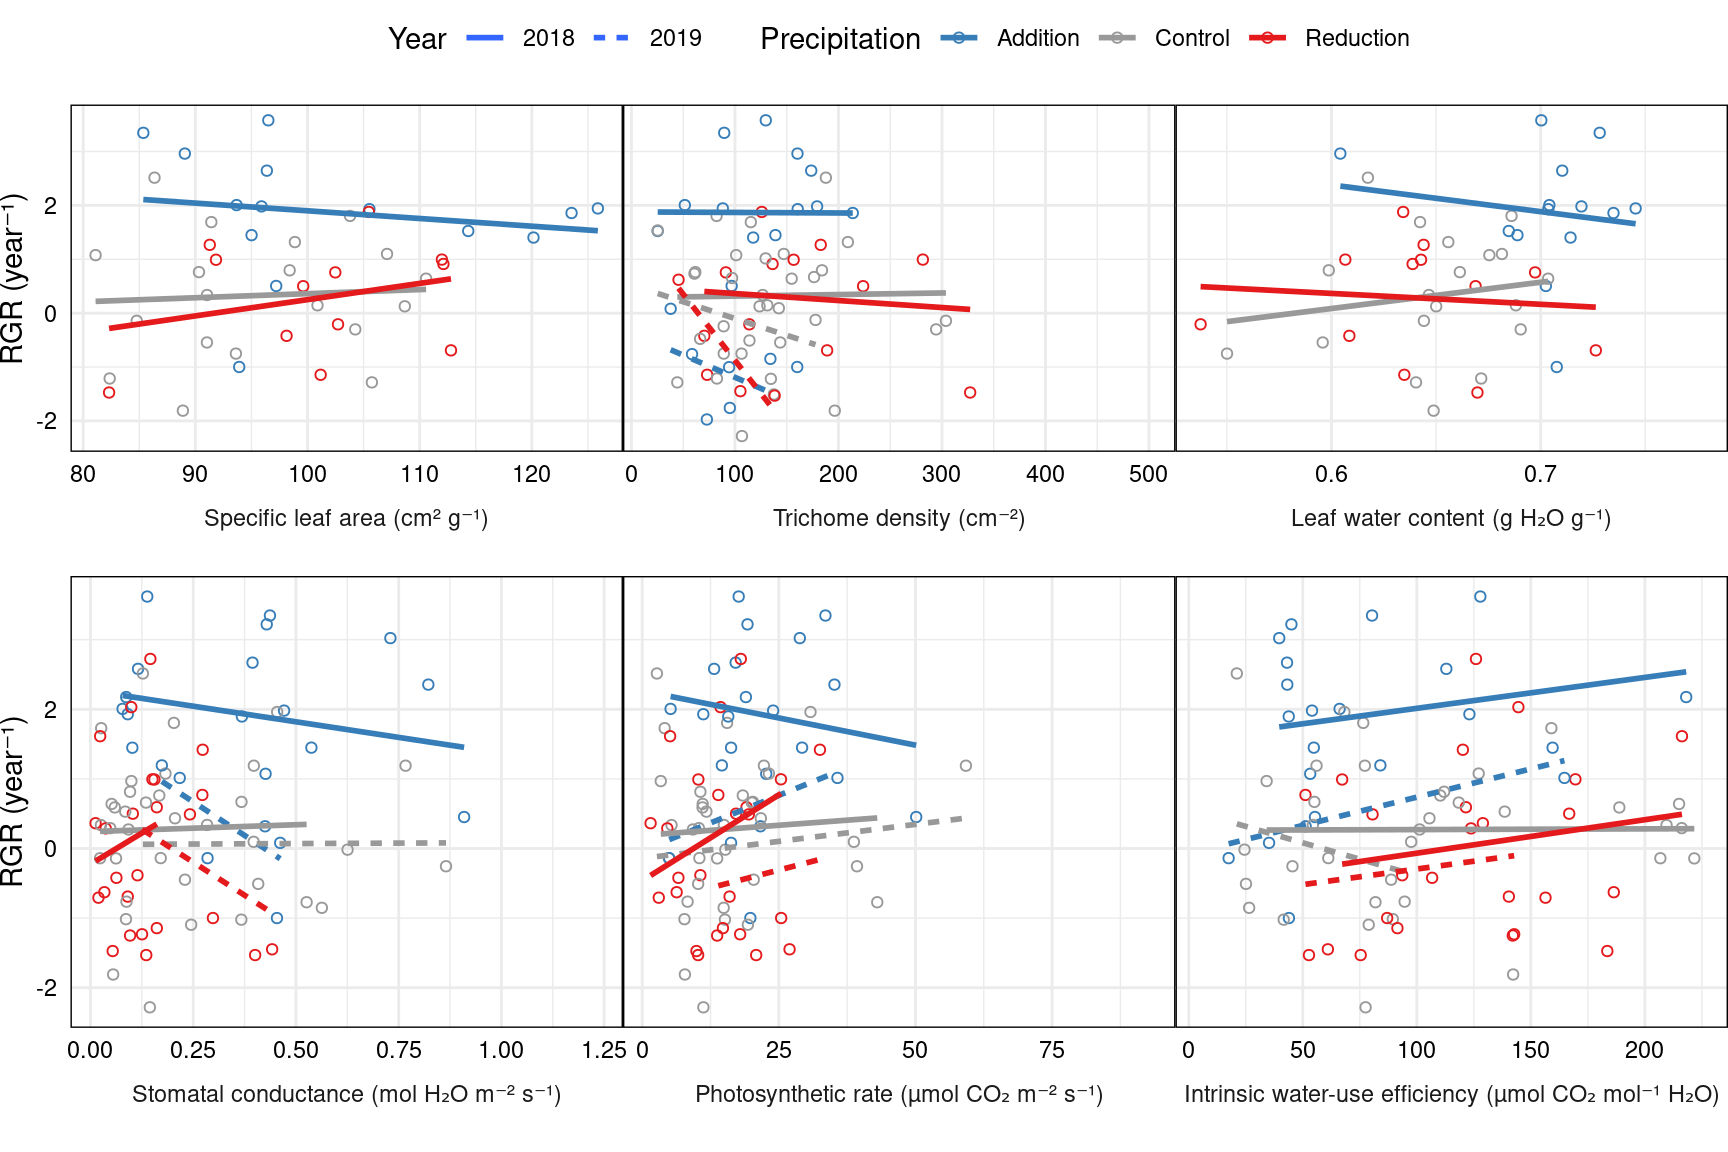
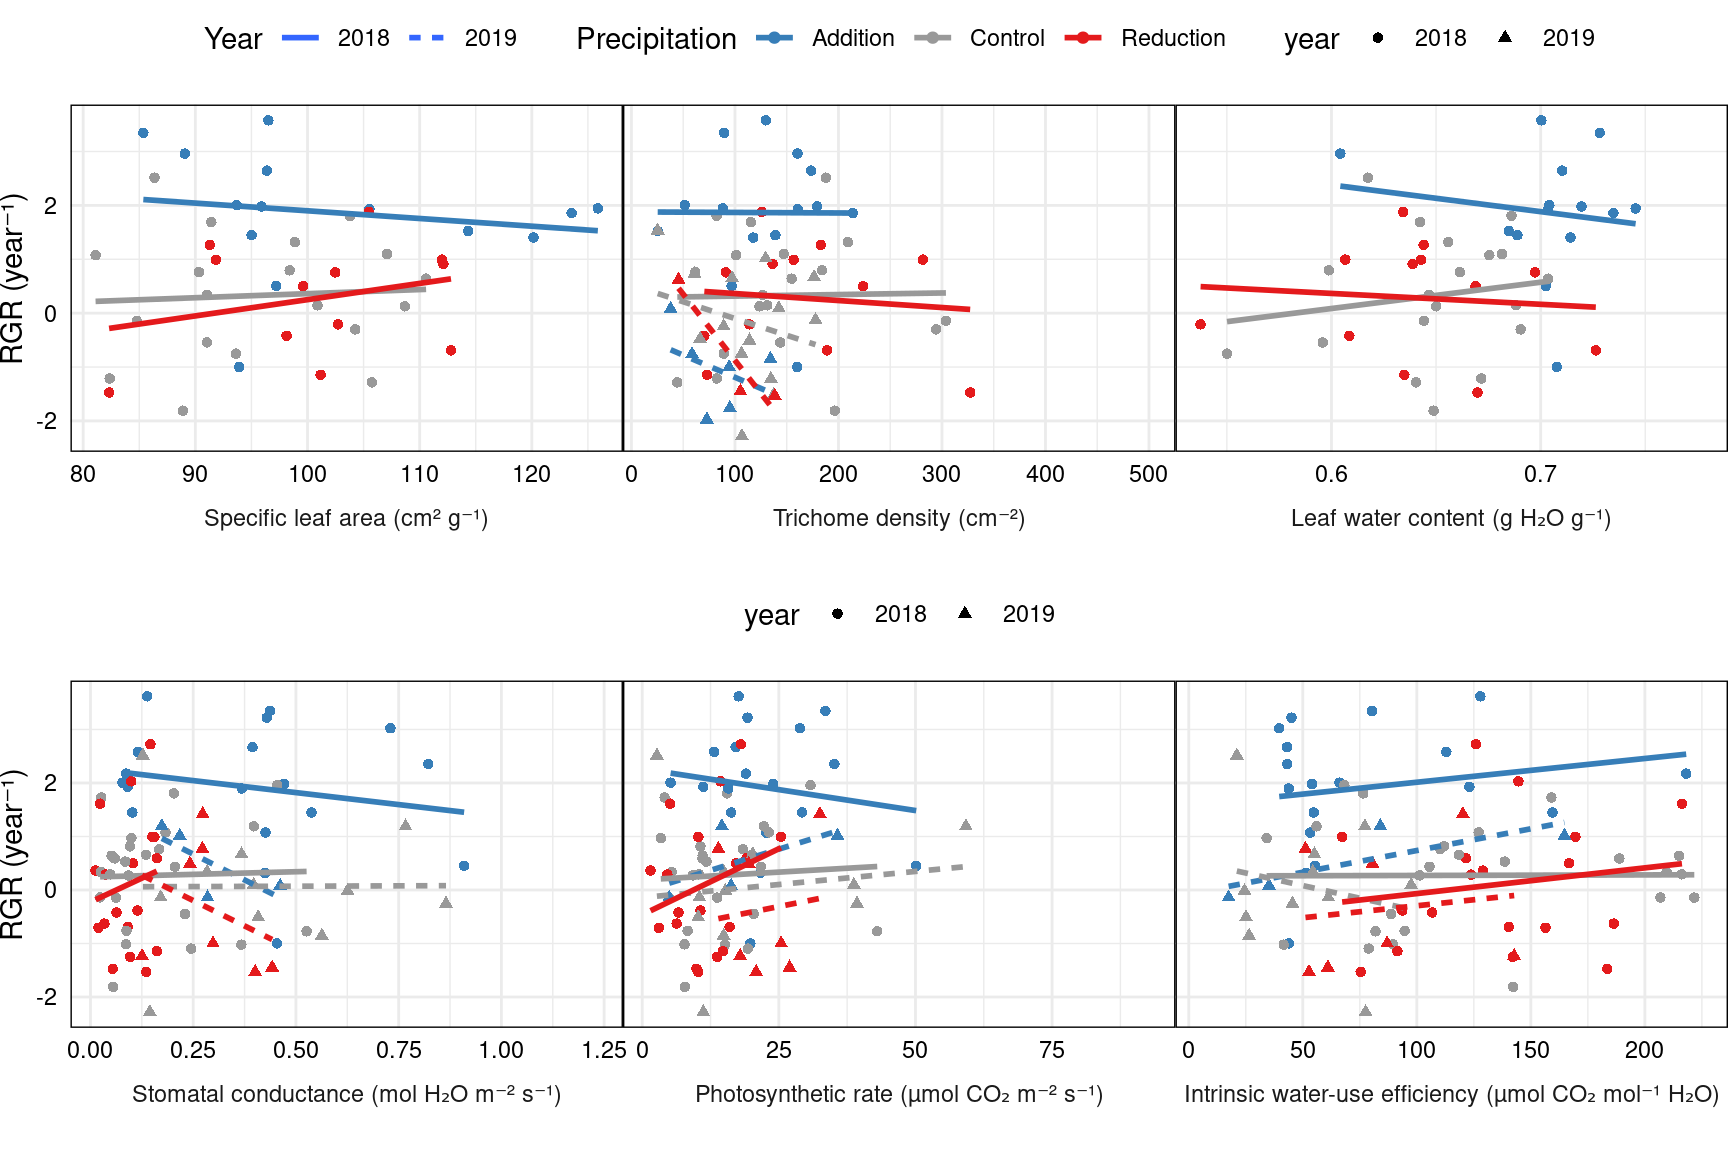
Tweak selection plots

diff --git a/maxfield_JP_analyses.html b/maxfield_JP_analyses.html
@@ -1730,8 +1730,9 @@ Conditional model:
   
 cen.size.fitness %&gt;%  select(year, census, size, flowered, survived, water, snow) %&gt;% filter(census !=&quot;2020&quot;) %&gt;% 
   pivot_longer(c(flowered, survived), names_to=&quot;trait&quot;, values_to=&quot;fitness&quot;) %&gt;% 
-  ggplot(aes(x=log10(size), y=fitness, color=water)) + facet_grid(trait ~ census, switch=&quot;y&quot;, 
-                                                                labeller = as_labeller(c(fitnessnames, set_names(unique(cen.size.fitness$census))))) +
+  ggplot(aes(x=log10(size), y=fitness, color=water)) + 
+  facet_grid(trait ~ census, switch=&quot;y&quot;, 
+             labeller = as_labeller(c(fitnessnames, c(`2018`=&quot;2018 early&quot;,`2018r2`=&quot;2018 late&quot;,`2019`=&quot;2019 early&quot;)))) +
   geom_point(shape=&quot;|&quot;, show.legend=F) + geom_smooth(method=&quot;glm&quot;, method.args=list(family=&quot;binomial&quot;), se=F) +
   scale_color_manual(values=water_pal) + scale_y_continuous(position=&quot;right&quot;) + scale_x_continuous(labels=c(1:3,&quot;&quot;)) +
   labs(color=&quot;Precipitation&quot;, x=expression(log[10]~Rosette~size)) + 
@@ -5996,7 +5997,6 @@ plot_selection_facets &lt;- function(response, treatment, set) {
   
   p &lt;- ggplot(trait.data, aes_string(y=response, x=&quot;value&quot;, color=treatment, linetype=&quot;year&quot;)) + 
     facet_wrap(vars(trait), scales=&quot;free_x&quot;, labeller = as_labeller(traitnames.units), strip.position = &quot;bottom&quot;)+
-    geom_point(shape=ifelse(response==&quot;RGR&quot;, 1,&quot;|&quot;)) +
     scale_color_manual(values=c(water_pal, snow_pal)) + theme(legend.position=&quot;top&quot;) +
     labs(linetype=&quot;Year&quot;,x=&quot;&quot;,color=c(water=&quot;Precipitation&quot;,snow=&quot;Snowmelt&quot;)[treatment], 
          y=fitnessnames[response]) +
@@ -6008,9 +6008,9 @@ plot_selection_facets &lt;- function(response, treatment, set) {
     p  &lt;- p + guides(linetype=F, color=F)
   }
   if(response ==&quot;RGR&quot;) {
-    p &lt;-  p +  geom_smooth(se=F, method=&quot;lm&quot;)
+    p &lt;-  p + geom_point(aes(shape=year)) + geom_smooth(se=F, method=&quot;lm&quot;)
   }  else { 
-    p &lt;-  p + geom_smooth(se=F, method=&quot;glm&quot;, method.args = list(family=binomial))
+    p &lt;-  p + geom_point(shape=&quot;|&quot;) + geom_smooth(se=F, method=&quot;glm&quot;, method.args = list(family=binomial))
   }
   return(p)
 }
